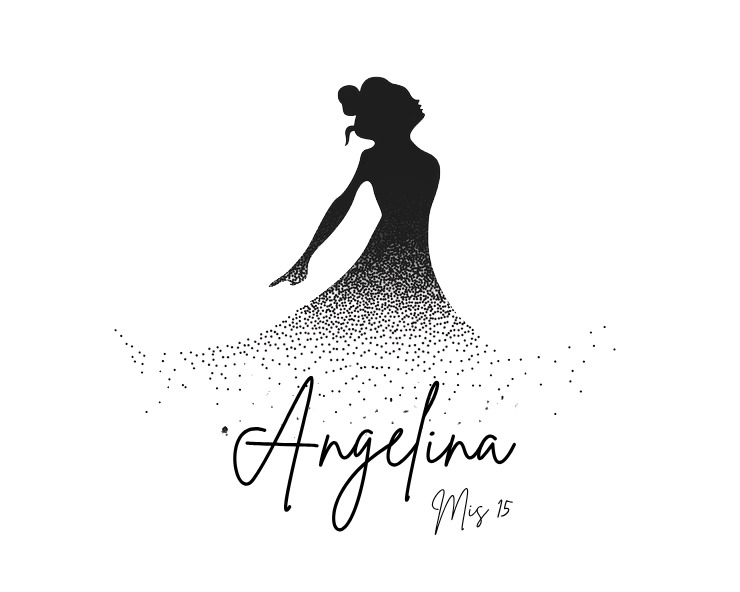
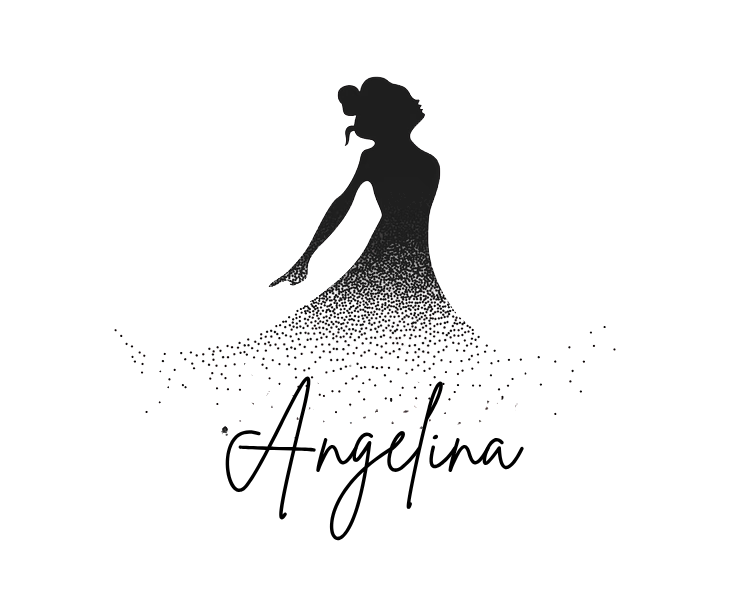
update-hero-title

Changed region(s): [[0.2797, 0.6385, 0.7149, 0.9122], [0.5905, 0.8209, 0.6838, 0.9122]]

diff --git a/script.js b/script.js
@@ -58,6 +58,7 @@ const iconMarkup = {
 
 function setStaticContent() {
   document.title = `${eventData.title} | ${eventData.names}`;
+  document.getElementById("hero-title").textContent = eventData.title.toUpperCase();
   document.getElementById("hero-date-time").textContent = `${eventData.date} · ${eventData.time}`;
   document.getElementById("detail-date").textContent = eventData.date;
   document.getElementById("detail-time").textContent = eventData.time;

diff --git a/index.html b/index.html
@@ -17,6 +17,7 @@
         <div class="hero-bg"></div>
         <div class="hero-overlay"></div>
         <div class="hero-content">
+          <p id="hero-title" class="eyebrow"></p>
           <img src="./Angelina.png" alt="Angelina" class="hero-signature" />
           <div class="hero-meta">
             <span class="hero-line"></span>

diff --git a/styles.css b/styles.css
@@ -112,6 +112,11 @@ textarea {
   text-transform: uppercase;
 }
 
+.hero-content .eyebrow {
+  font-size: clamp(1rem, 2.8vw, 1.55rem);
+  letter-spacing: 0.42em;
+}
+
 .hero-name {
   margin: 0 0 2rem;
   font-size: clamp(3rem, 7vw, 5.25rem);
